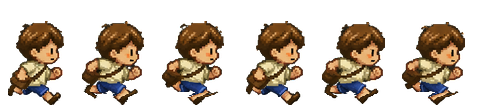
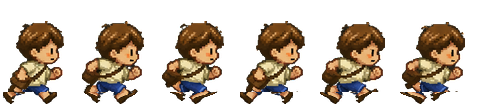
Lend the run the walk's legs
Two commits ago this said the run could not be given alternating feet and wrote down why.
The why was right and the conclusion was wrong.

WHAT IS TRUE: the run cannot be fixed IN PLACE. Its boots sit at the same two columns in
all six frames and it plants the same foot in every one, and the trick that fixes the walk
-- reflecting the shins about the body -- does not work here, because the apo's walk has a
rear leg drawn below the satchel and his run does not. He leans when he runs, the satchel
swings down with him, and it covers rows 68 to 95 over the whole of the rear leg. Bag and
boot occupy the same rows and no horizontal cut separates them.

WHAT WAS WRONG: that the run's legs were worth keeping. They are the least of that sheet.
What is on it and nowhere else is the LEAN and the pumped arms -- the torso pitched
forward, the elbows up, a whole second read of the character that the walk sheet has no
version of. The legs are the part that is broken and the part that is replaceable.

So the run keeps its own six torsos and takes the walk's six pairs of legs, which
alternate because that cycle was built to. They slide back twelve pixels to meet the hips,
because a running figure sits further forward over its feet than a walking one, and the
cut is at the same row 92 the walk's own construction uses.

The planted foot now runs 47, 41, 36 through one stride and 45, 39, 33 through the next --
[…]

diff --git a/tools/build_art.py b/tools/build_art.py
@@ -183,17 +183,13 @@ class WalkCycle(NamedTuple):
 
 
 class RunCycle(NamedTuple):
-    """How to give a delivered run its foot travel. See build_run."""
+    """How to give a delivered run legs that alternate. See build_run."""
 
-    ## The same three numbers the walk uses, measured on the run's own pose.
-    knee: int
-    split: int
-    ramp: int
-    ## One (draw, lift) per delivered frame, rather than one per synthesised frame. THE RUN
-    ## KEEPS ALL SIX OF THE ARTIST'S POSES -- the bent knee, the reach, the tuck are the best
-    ## thing on that sheet and none of them is reproducible -- and only the distance between
-    ## the feet is changed.
-    steps: tuple[tuple[int, int], ...]
+    ## The row the run's torso ends and the walk's legs begin.
+    cut: int
+    ## How far to slide those legs to meet the leaning hips. A running figure is pitched
+    ## forward, so its hips sit further back over its feet than a walking one's.
+    offset: int
 
 
 ## The apo, at ninety-six pixels.
@@ -207,31 +203,25 @@ APO = CharacterSheet(
     source=SOURCE / "Obra Assets Male.png",
     hero=(40, 115, 305, 470),
     standing=96.0,
-    ## THE RUN CANNOT BE GIVEN ALTERNATING FEET, and it is worth writing down why so that
-    ## nobody spends another afternoon on it. The trick that works for the walk is to
-    ## reflect the shins about the body: it works there because the apo's rear leg is drawn
-    ## BELOW the satchel -- a whole boot and shin, from row 92 down -- so there is a second
-    ## leg to bring forward.
+    ## THE RUN BORROWS THE WALK'S LEGS, because it has none of its own worth keeping and
+    ## everything else about it is worth keeping.
     ##
-    ## In the run he leans, and the satchel swings down with him. It covers rows 68 to 95
-    ## over the whole of the rear leg, so the rear boot and the bag occupy the SAME ROWS and
-    ## no horizontal cut separates them. Reflect below the bag and only the front boot moves
-    ## and comes off its shin; reflect above it and the bag changes shoulders halfway
-    ## through every stride. There is no second leg on that sheet, only a bag with a boot
-    ## under it.
+    ## The delivered run pins both boots at the same two columns in all six frames and
+    ## plants the same foot in every one of them, so on screen it is a boy hopping. It
+    ## cannot be fixed in place the way the walk was: the walk's trick is to reflect the
+    ## shins about the body, and that works there because the apo's rear leg is drawn BELOW
+    ## the satchel -- a whole boot and shin from row 92 down. In the run he leans and the
+    ## satchel swings down with him, covering rows 68 to 95 over the whole of the rear leg,
+    ## so the bag and the boot occupy the SAME ROWS and no horizontal cut separates them.
+    ## Reflect below the bag and only the front boot moves, and it comes off its shin;
+    ## reflect above it and the bag changes shoulders halfway through every stride.
     ##
-    ## What the run can have is the other half of the problem: FEET THAT TRAVEL. The
-    ## delivered frames pin both boots at the same two columns in all six, so the body never
-    ## passes over its own foot. Drawing the legs together through each stride is exactly
-    ## that motion, and it costs none of the artist's poses.
-    run=RunCycle(
-        knee=92,
-        # Both legs are left of the middle here, so the gap between them is not where the
-        # walk's is.
-        split=31,
-        ramp=5,
-        steps=((0, 0), (7, 1), (13, 3), (0, 0), (7, 1), (13, 3)),
-    ),
+    ## But the run sheet's value was never its legs. It is the LEAN and the pumped arms --
+    ## the torso is pitched forward, the elbows are up, and none of that is anywhere else on
+    ## the sheet. So the run keeps its own six torsos and takes the walk's six pairs of
+    ## legs, which alternate. The legs slide back to meet the hips, because a running figure
+    ## sits further forward over its feet than a walking one.
+    run=RunCycle(cut=92, offset=-12),
     walk=WalkCycle(
         source=("walk", "3"),
         knee=92,
@@ -683,13 +673,23 @@ def build_walk(cell: Image.Image, gait: WalkCycle) -> list[Image.Image]:
     return [Image.fromarray(f, "RGBA") for f in frames]
 
 
-def build_run(cells: list[Image.Image], gait: RunCycle) -> list[Image.Image]:
-    """The delivered run, with its feet given somewhere to go. See RunCycle."""
+def build_run(torsos: list[Image.Image], legs: list[Image.Image],
+              gait: RunCycle) -> list[Image.Image]:
+    """The delivered run above the cut, the built walk's legs below it. See RunCycle."""
     out: list[Image.Image] = []
-    for cell, (draw, lift) in zip(cells, gait.steps):
-        source = np.asarray(cell.convert("RGBA")).copy()
-        out.append(Image.fromarray(
-            close_legs(source, gait.knee, gait.ramp, gait.split, draw, lift), "RGBA"))
+    for torso, leg in zip(torsos, legs):
+        top = np.asarray(torso.convert("RGBA")).copy()
+        bottom = np.asarray(leg.convert("RGBA"))
+        height, width = top.shape[0], top.shape[1]
+        top[gait.cut:, :, :] = 0
+        for y in range(gait.cut, height):
+            for x in range(width):
+                if bottom[y, x, 3] == 0:
+                    continue
+                moved = x + gait.offset
+                if 0 <= moved < width:
+                    top[y, moved, :] = bottom[y, x, :]
+        out.append(Image.fromarray(top, "RGBA"))
     return out
 
 
@@ -735,8 +735,9 @@ def build_character(spec: CharacterSheet, write: bool) -> tuple[dict[str, bytes]
         cells = [compose(key) for key in keys]
         if name == "walk" and spec.walk is not None:
             cells = build_walk(compose(spec.walk.source), spec.walk)
-        elif name == "run" and spec.run is not None:
-            cells = build_run(cells, spec.run)
+        elif name == "run" and spec.run is not None and spec.walk is not None:
+            cells = build_run(cells, build_walk(compose(spec.walk.source), spec.walk),
+                              spec.run)
         strip = Image.new("RGBA", (cell_w * len(cells), cell_h), (0, 0, 0, 0))
         for index, cell in enumerate(cells):
             strip.alpha_composite(cell, (index * cell_w, 0))
